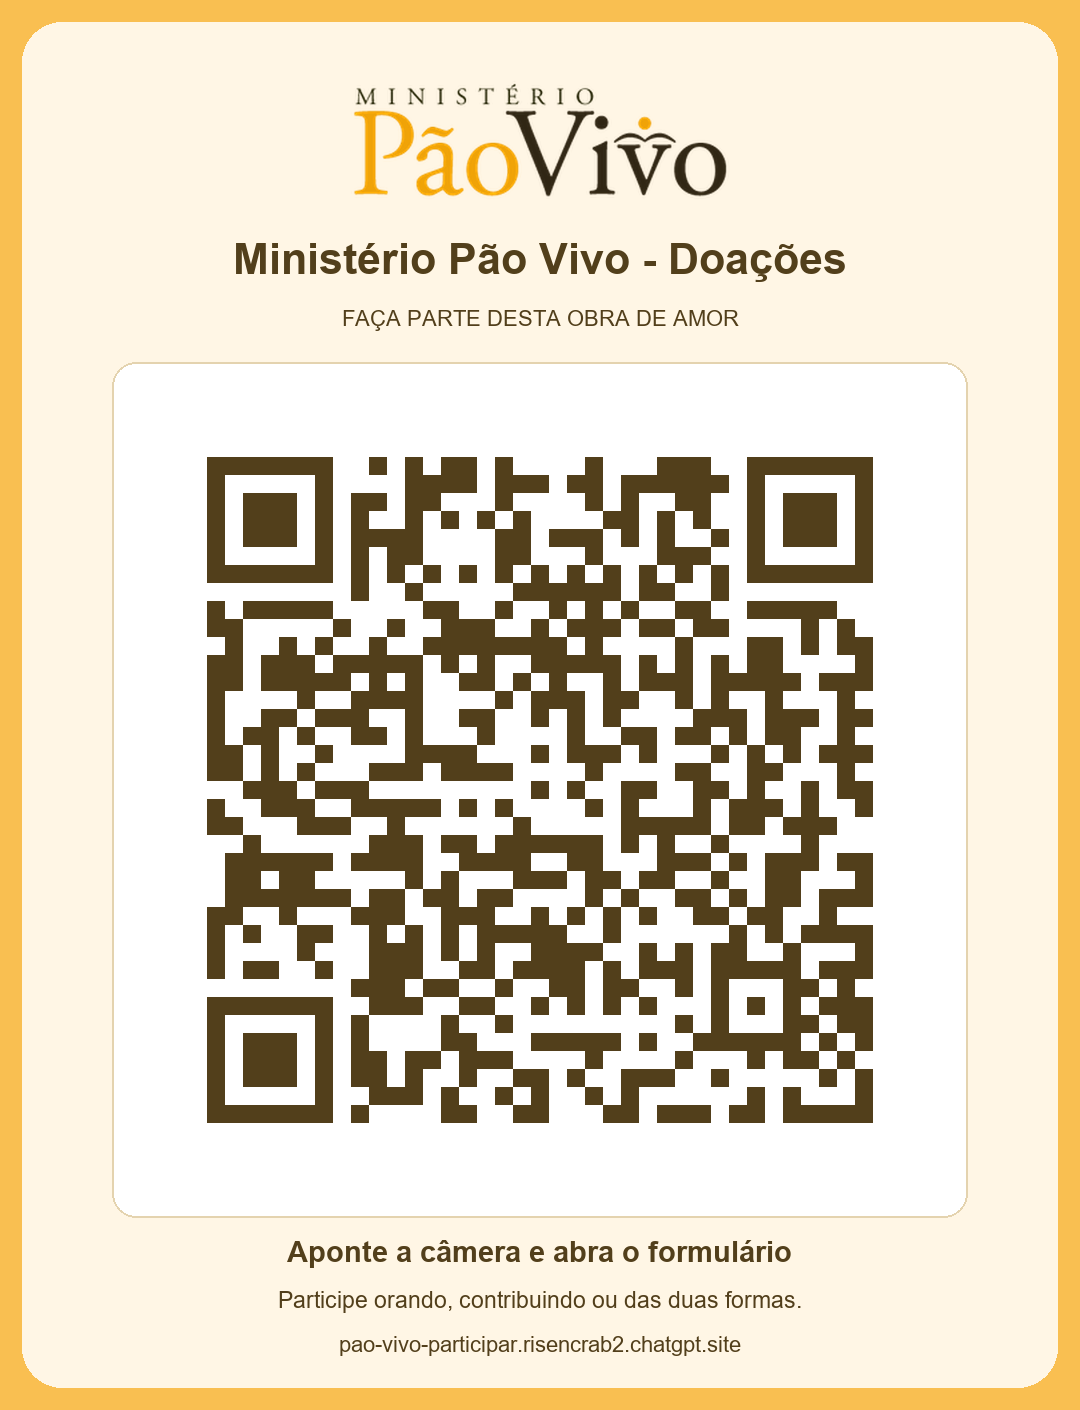
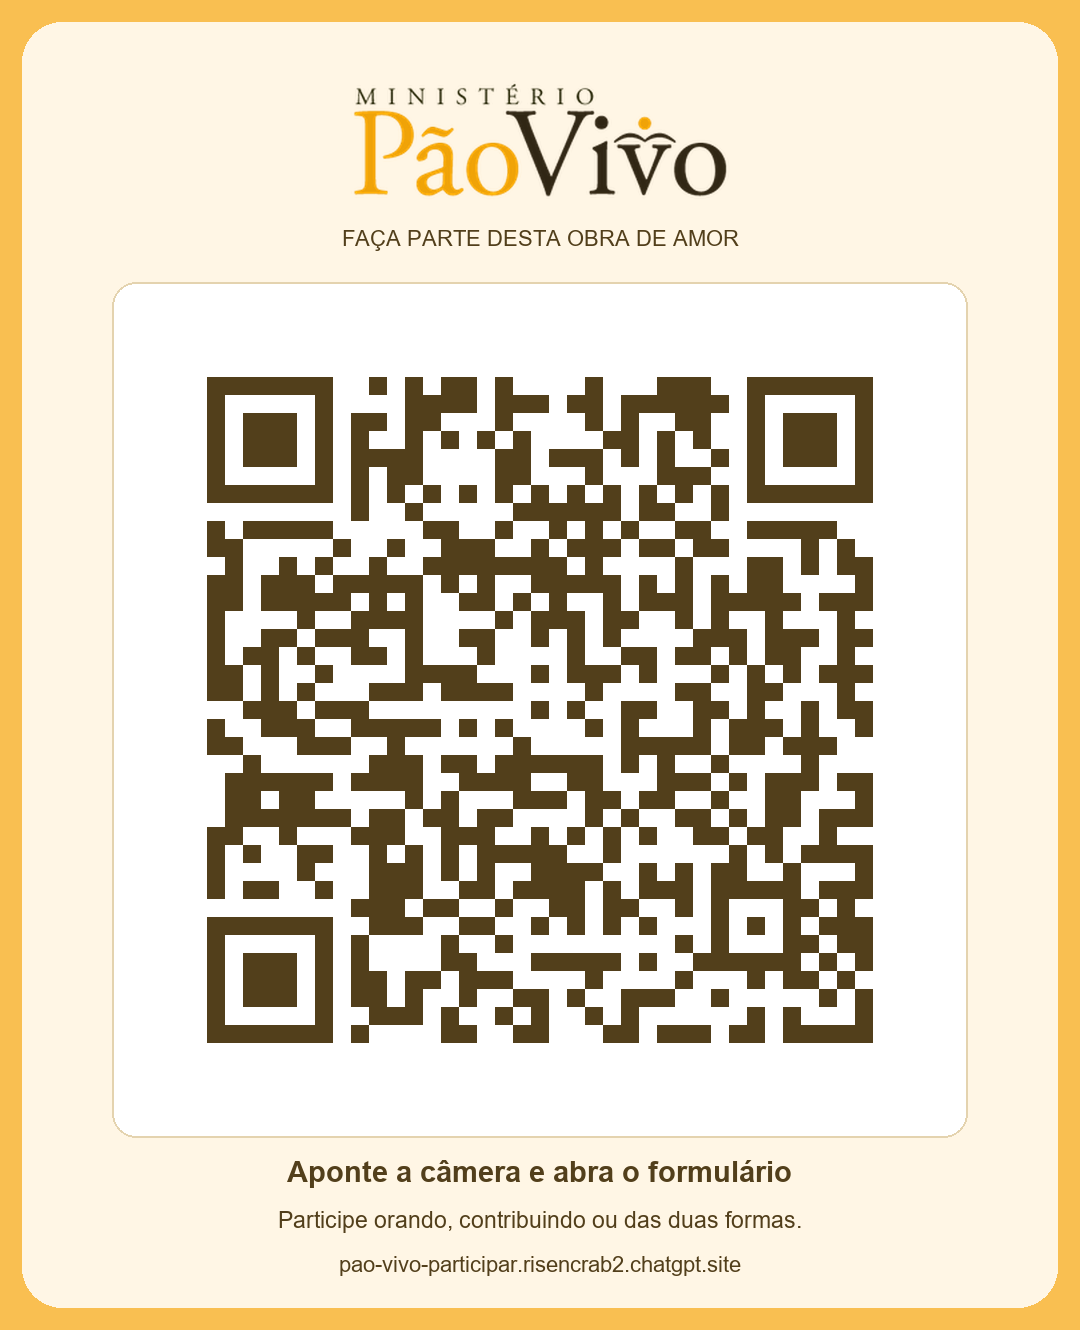
Remove títulos extras da página e da arte do QR Code

Changed region(s): [[0.0917, 0.0617, 0.9167, 0.8015], [0.0917, 0.8323, 0.9167, 0.9865]]

diff --git a/public/acesso.html b/public/acesso.html
@@ -1,3 +1,3 @@
 <!doctype html>
-<html lang="pt-BR"><head><meta charset="utf-8"><meta name="viewport" content="width=device-width, initial-scale=1"><meta name="theme-color" content="#f9bf51"><title>Ministério Pão Vivo - Doações</title><link rel="stylesheet" href="styles.css"></head>
-<body><header class="wrap header"><a href="/"><img src="assets/logo.png" class="logo" alt="Ministério Pão Vivo"></a><a class="header-link" href="/">Ir ao formulário ↗</a></header><main class="wrap"><section class="access-card form-card"><div class="eyebrow access-eyebrow">QR CODE 1 — ACESSO AO FORMULÁRIO</div><h1>Ministério Pão Vivo - Doações</h1><p>Aponte a câmera do seu celular para o QR Code e escolha como participar: orando, contribuindo ou das duas formas.</p><img class="access-qr" src="assets/qr-code-acesso.png" width="1080" height="1410" alt="Ministério Pão Vivo - Doações: QR Code de acesso ao formulário, nas cores dourado, creme e marrom"><p class="access-url">pao-vivo-participar.risencrab2.chatgpt.site</p><div class="access-actions"><a class="button dark" href="/">Abrir formulário ↗</a><a class="button copy" href="assets/qr-code-acesso.png" download="qr-code-acesso-pao-vivo.png">Baixar QR Code ↓</a></div><p class="help">Este QR Code abre o formulário. O Pix para a doação aparece após o preenchimento.</p></section></main></body></html>
+<html lang="pt-BR"><head><meta charset="utf-8"><meta name="viewport" content="width=device-width, initial-scale=1"><meta name="theme-color" content="#f9bf51"><title>Ministério Pão Vivo</title><link rel="stylesheet" href="styles.css"></head>
+<body><header class="wrap header"><a href="/"><img src="assets/logo.png" class="logo" alt="Ministério Pão Vivo"></a><a class="header-link" href="/">Ir ao formulário ↗</a></header><main class="wrap"><section class="access-card form-card" aria-label="QR Code do Ministério Pão Vivo"><p>Aponte a câmera do seu celular para o QR Code e escolha como participar: orando, contribuindo ou das duas formas.</p><img class="access-qr" src="assets/qr-code-acesso.png" width="1080" height="1330" alt="QR Code de acesso ao formulário do Ministério Pão Vivo, nas cores dourado, creme e marrom"><p class="access-url">pao-vivo-participar.risencrab2.chatgpt.site</p><div class="access-actions"><a class="button dark" href="/">Abrir formulário ↗</a><a class="button copy" href="assets/qr-code-acesso.png" download="qr-code-acesso-pao-vivo.png">Baixar QR Code ↓</a></div><p class="help">Este QR Code abre o formulário. O Pix para a doação aparece após o preenchimento.</p></section></main></body></html>

diff --git a/scripts/style-access-qr.py b/scripts/style-access-qr.py
@@ -18,9 +18,9 @@ for row in range(size):
             x, y = (col + quiet) * scale, (row + quiet) * scale
             draw.rectangle((x, y, x + scale - 1, y + scale - 1), fill=INK)
 
-canvas = Image.new('RGB', (1080, 1410), GOLD)
+canvas = Image.new('RGB', (1080, 1330), GOLD)
 draw = ImageDraw.Draw(canvas)
-draw.rounded_rectangle((22, 22, 1057, 1387), radius=40, fill=CREAM)
+draw.rounded_rectangle((22, 22, 1057, 1307), radius=40, fill=CREAM)
 logo = Image.open(ROOT / 'public/assets/logo.png').convert('RGBA')
 logo = logo.resize((380, round(380 * logo.height / logo.width)), Image.Resampling.LANCZOS)
 canvas.paste(logo, ((1080 - logo.width) // 2, 76), logo)
@@ -32,13 +32,12 @@ def font(size, bold=False):
 def center(text, top, size, color=INK, bold=False):
     draw.text((540, top), text, font=font(size, bold), fill=color, anchor='mt')
 
-center('Ministério Pão Vivo - Doações', 243, 43, bold=True)
-center('FAÇA PARTE DESTA OBRA DE AMOR', 310, 22)
-draw.rounded_rectangle((112, 362, 967, 1217), radius=24, fill='white', outline='#E4D3AF', width=2)
-canvas.paste(code, (135, 385))
-center('Aponte a câmera e abra o formulário', 1240, 29, bold=True)
-center('Participe orando, contribuindo ou das duas formas.', 1291, 23)
-center('pao-vivo-participar.risencrab2.chatgpt.site', 1336, 22)
+center('FAÇA PARTE DESTA OBRA DE AMOR', 230, 22)
+draw.rounded_rectangle((112, 282, 967, 1137), radius=24, fill='white', outline='#E4D3AF', width=2)
+canvas.paste(code, (135, 305))
+center('Aponte a câmera e abra o formulário', 1160, 29, bold=True)
+center('Participe orando, contribuindo ou das duas formas.', 1211, 23)
+center('pao-vivo-participar.risencrab2.chatgpt.site', 1256, 22)
 
 assets = ROOT / 'public/assets'
 canvas.save(assets / 'qr-code-acesso.png', optimize=True)
@@ -46,4 +45,4 @@ output = ROOT / 'output'
 output.mkdir(exist_ok=True)
 canvas.save(output / 'qr-code-acesso-pao-vivo.png', optimize=True)
 canvas.save(output / 'ministerio-pao-vivo-doacoes.png', optimize=True)
-print('QR Code estilizado gerado em 1080 × 1410 px.')
+print('QR Code estilizado gerado em 1080 × 1330 px.')

diff --git a/README.md b/README.md
@@ -46,4 +46,4 @@ Na entrega, foram verificados no Chrome: visualização em desktop e celular (39
 O QR Code 1 leva ao formulário público. O QR Code 2 é o Pix original e aparece depois do preenchimento para quem escolheu contribuir. O cadastro fica em memória apenas durante o preenchimento e deve ser enviado pelo visitante no WhatsApp. Ainda não há persistência de cadastros ou migração para Next.js nesta versão.
 
 
-O QR Code de acesso inclui o título "Ministério Pão Vivo - Doações", logotipo, moldura dourada e fundo creme. Os módulos usam o marrom escuro `#523F1B` e preservam margem branca de quatro módulos. A arte pode ser regenerada por `scripts/style-access-qr.py` com Pillow e ReportLab. O QR Code Pix original não foi alterado.
+O QR Code de acesso usa o logotipo, moldura dourada e fundo creme, sem o título "Ministério Pão Vivo - Doações" e sem o cabeçalho "QR CODE 1 — ACESSO AO FORMULÁRIO". Os módulos usam o marrom escuro `#523F1B` e preservam margem branca de quatro módulos. A arte pode ser regenerada por `scripts/style-access-qr.py` com Pillow e ReportLab. O QR Code Pix original não foi alterado.
